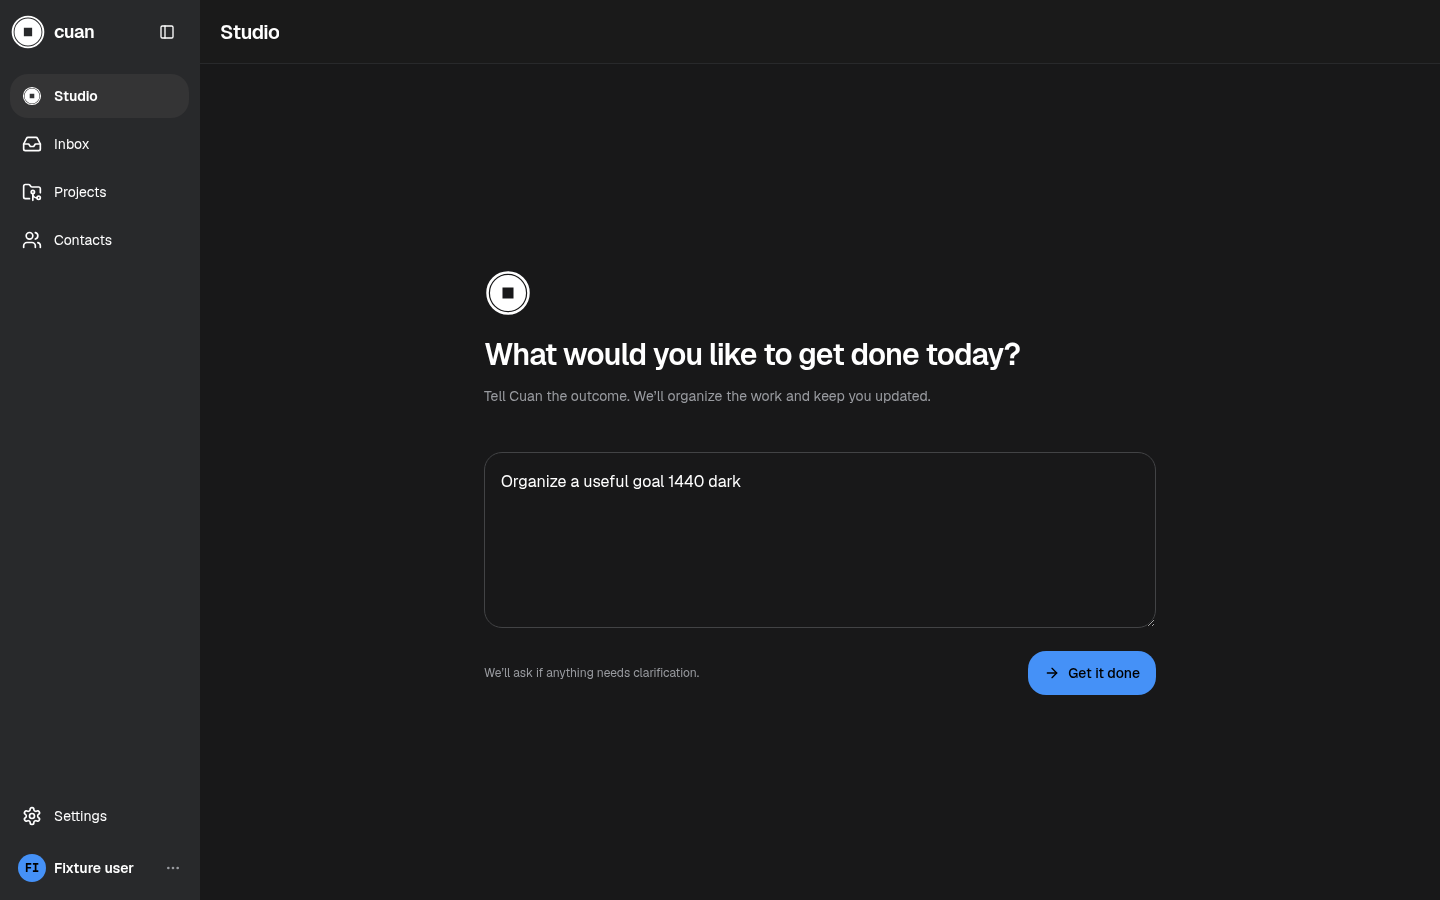
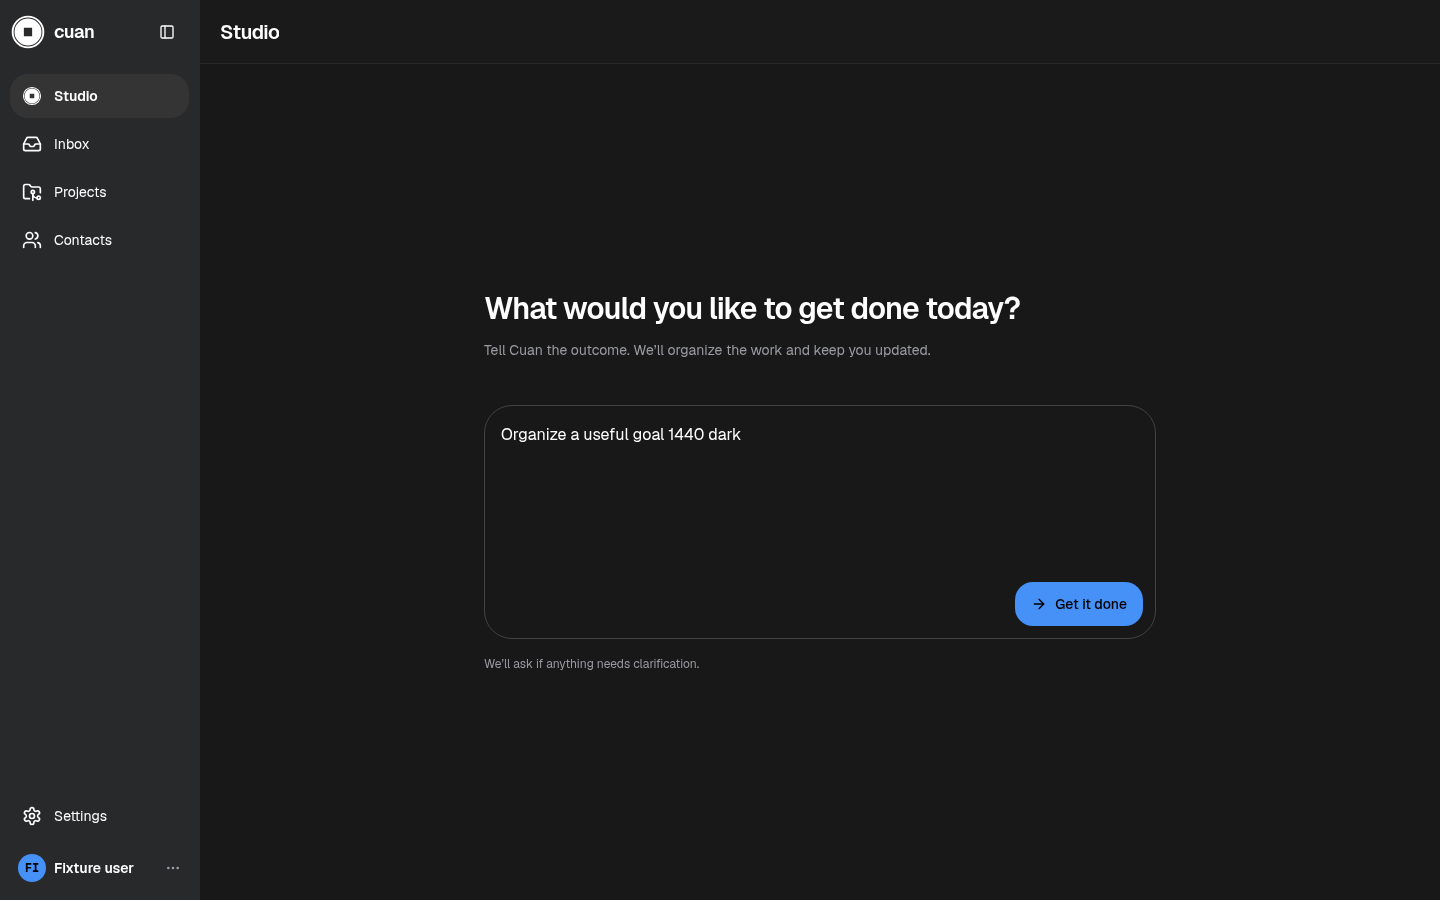
Place Studio submit at input bottom right and simplify greeting

diff --git a/web/src/features/inbox/StudioView.tsx b/web/src/features/inbox/StudioView.tsx
@@ -1,7 +1,6 @@
 import { useState } from 'react'
 import { Link, useNavigate } from 'react-router-dom'
 import { ArrowRight, LoaderCircle } from 'lucide-react'
-import { CuanMark } from '../../components/brand/CuanMark'
 import { apiFetch } from '../../api/client'
 
 export function StudioView({ onAccepted }: { onAccepted: () => void }) {
@@ -71,7 +70,6 @@ export function StudioView({ onAccepted }: { onAccepted: () => void }) {
       aria-label="Studio"
       className="mx-auto flex min-h-full w-full max-w-2xl flex-col justify-center py-8 md:py-12"
     >
-      <CuanMark className="mb-5 h-10 w-10 sm:h-12 sm:w-12" />
       <h2 className="text-2xl font-semibold tracking-tight sm:text-3xl">
         What would you like to get done today?
       </h2>
@@ -88,35 +86,37 @@ export function StudioView({ onAccepted }: { onAccepted: () => void }) {
         <label htmlFor="studio-goal" className="sr-only">
           Your goal
         </label>
-        <textarea
-          id="studio-goal"
-          className="field-control min-h-44 resize-y p-4 text-base leading-relaxed"
-          placeholder="Describe what you want to achieve…"
-          value={goal}
-          maxLength={6000}
-          disabled={busy}
-          onChange={(e) => update(e.target.value)}
-        />
-        <div className="flex flex-wrap items-center justify-between gap-3">
-          <p className="text-xs text-muted-foreground">
-            We’ll ask if anything needs clarification.
-          </p>
-          <button
-            type="submit"
-            className="action-primary"
-            disabled={busy || !goal.trim()}
-          >
-            {busy ? (
-              <LoaderCircle
-                className="h-4 w-4 animate-spin"
-                aria-hidden="true"
-              />
-            ) : (
-              <ArrowRight className="h-4 w-4" aria-hidden="true" />
-            )}
-            {busy ? 'Getting started…' : 'Get it done'}
-          </button>
+        <div className="overflow-hidden rounded-2xl border border-input bg-background focus-within:ring-2 focus-within:ring-ring focus-within:ring-offset-2">
+          <textarea
+            id="studio-goal"
+            className="block min-h-44 w-full resize-none border-0 bg-transparent p-4 text-base leading-relaxed outline-none placeholder:text-muted-foreground disabled:opacity-50"
+            placeholder="Describe what you want to achieve…"
+            value={goal}
+            maxLength={6000}
+            disabled={busy}
+            onChange={(e) => update(e.target.value)}
+          />
+          <div className="flex justify-end px-3 pb-3">
+            <button
+              type="submit"
+              className="action-primary"
+              disabled={busy || !goal.trim()}
+            >
+              {busy ? (
+                <LoaderCircle
+                  className="h-4 w-4 animate-spin"
+                  aria-hidden="true"
+                />
+              ) : (
+                <ArrowRight className="h-4 w-4" aria-hidden="true" />
+              )}
+              {busy ? 'Getting started…' : 'Get it done'}
+            </button>
+          </div>
         </div>
+        <p className="text-xs text-muted-foreground">
+          We’ll ask if anything needs clarification.
+        </p>
         {error && (
           <div
             role="alert"

diff --git a/docs/evidence/studio-brand/README.md b/docs/evidence/studio-brand/README.md
@@ -1,5 +1,5 @@
 # Studio branding
 
-Reused the existing vector Cuan kepeng mark for Studio navigation (desktop, collapsed sidebar, and mobile) and added a40px mobile/48px desktop mark above the greeting. Kept Studio labels. The navigation mark inherits active/inactive colors and is decorative to avoid duplicate screen-reader labels; standalone brand marks retain their accessible name.
+Reused the existing vector Cuan kepeng mark for Studio navigation (desktop, collapsed sidebar, and mobile) without repeating the logo above the greeting. Kept Studio labels. The navigation mark inherits active/inactive colors and is decorative to avoid duplicate screen-reader labels; standalone brand marks retain their accessible name.
 
-TypeScript/Vite build passed. Production-build browser fixtures passed at360/390/820/1440px in light/dark mode, including logo presence, decorative navigation SVG, draft persistence, safe retry and Inbox compose routing. No provider calls. Screenshots and `browser.json` are included. Existing build CSS/bundle warnings remain.
+TypeScript/Vite build passed. Production-build browser fixtures passed at360/390/820/1440px in light/dark mode, including no duplicate greeting logo, decorative navigation SVG, draft persistence, safe retry and Inbox compose routing. The CTA is inside the input frame at bottom right, in a separate row below the textarea; minimum44px target and no overlap. The resize handle is removed. No provider calls. Screenshots and `browser.json` are included. Existing build CSS/bundle warnings remain.

diff --git a/docs/guides/studio.md b/docs/guides/studio.md
@@ -20,4 +20,4 @@ Named projects use application-generated IDs and controlled local workspace path
 
 ## Visual identity
 
-Studio uses Cuan’s kepeng mark in navigation and above the greeting. The navigation label remains **Studio**, including on mobile. The mark follows the current theme; the navigation mark inherits the active item color. Navigation marks are decorative for assistive technology because the button already has a readable label.
+Studio uses Cuan’s kepeng mark in navigation. The navigation label remains **Studio**, including on mobile. The mark follows the current theme; the navigation mark inherits the active item color. The greeting has no repeated logo. The goal input has a dedicated bottom-right **Get it done** button, with no textarea resize handle. Navigation marks are decorative for assistive technology because the button already has a readable label.
